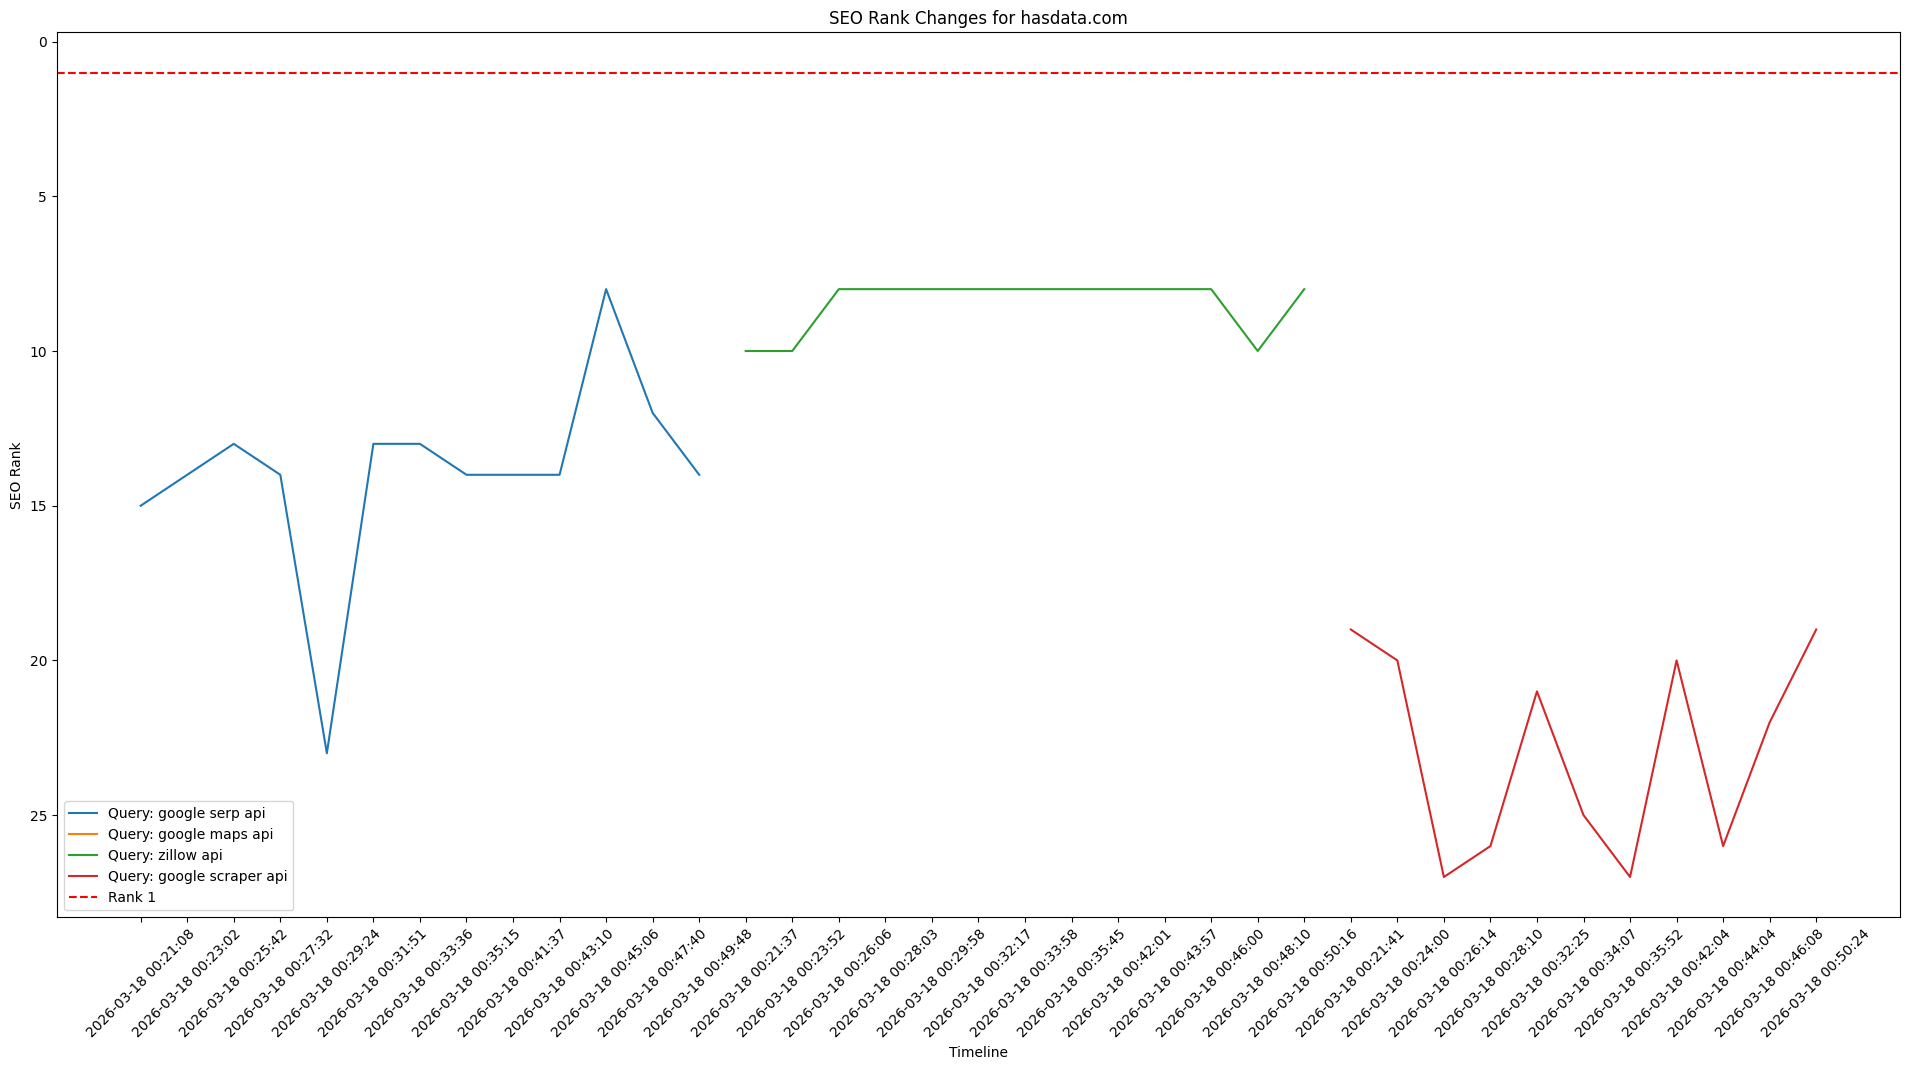
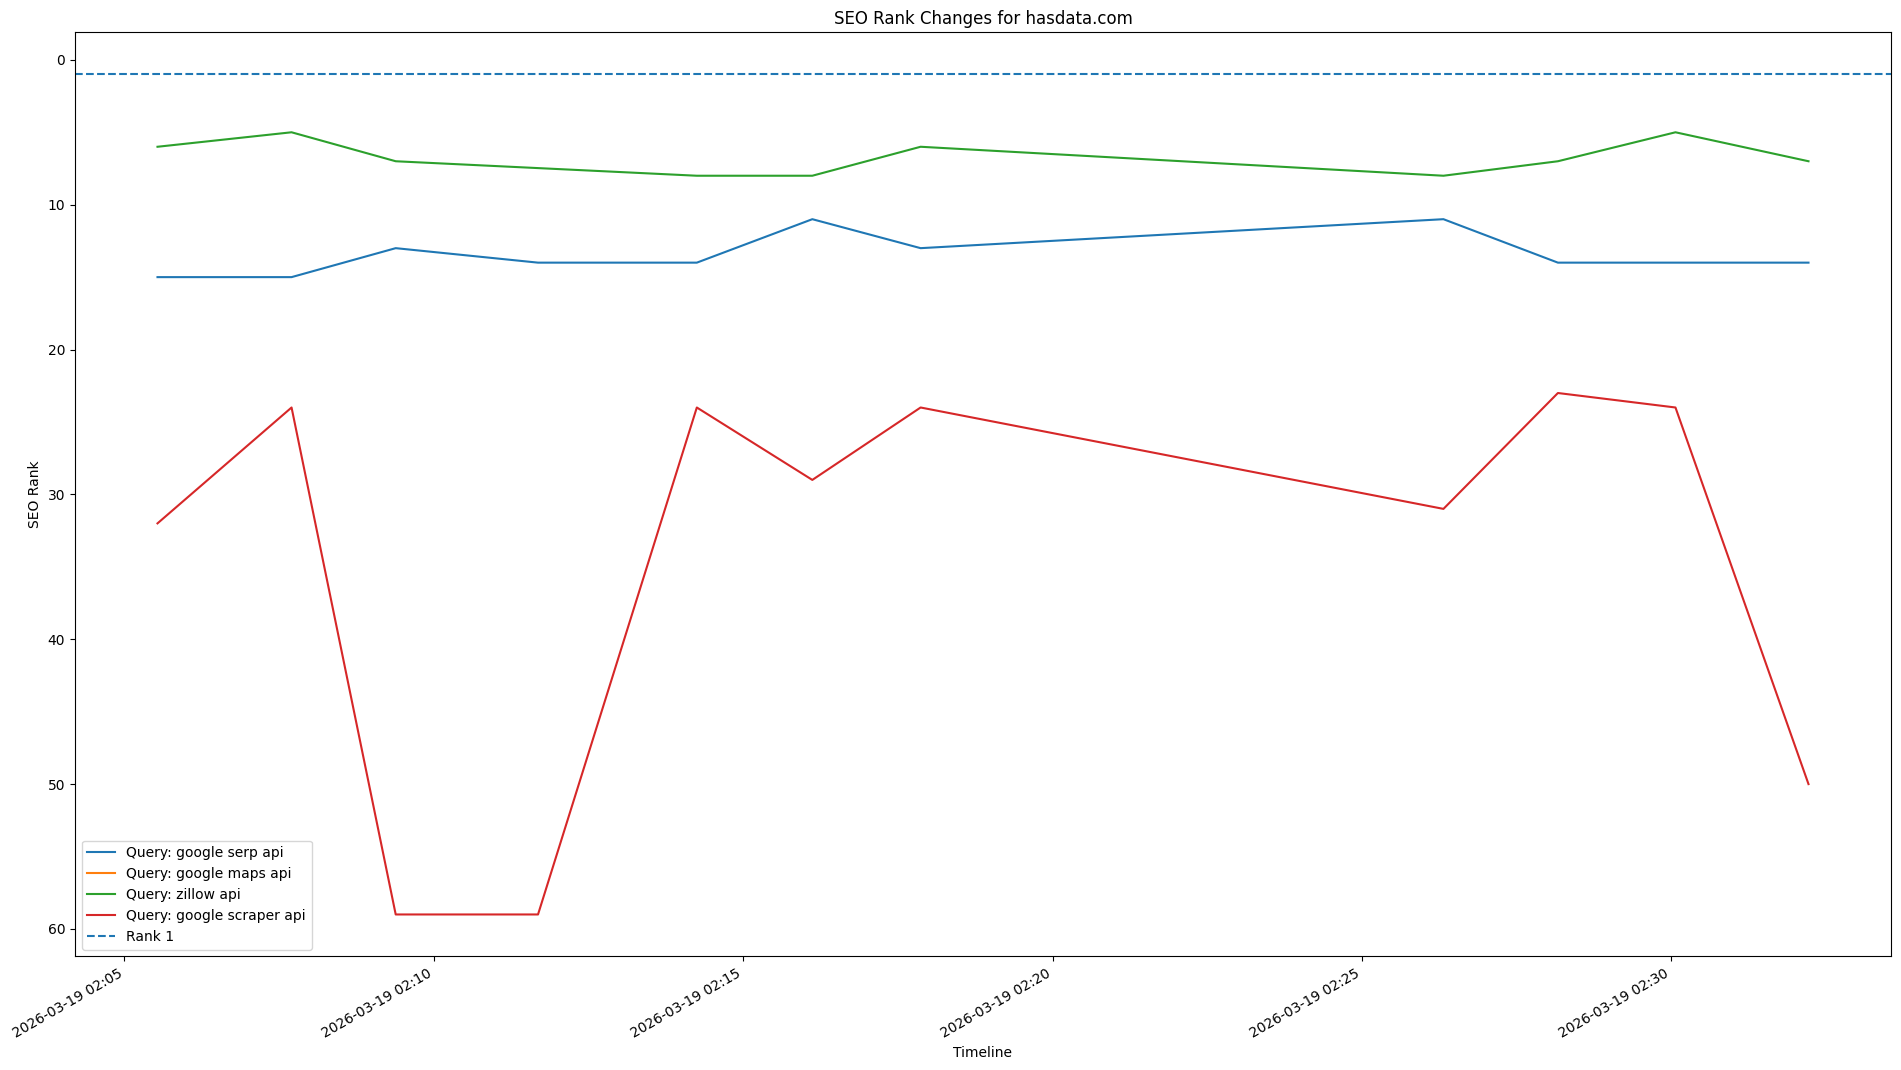
Fixed graph bugs, need to update readme next

diff --git a/src/main.py b/src/main.py
@@ -5,24 +5,22 @@ from visualization import make_graph, make_excel_report
 from utils import read_domain_data, read_lines_from_settings_txt, write_domain_data, clean_domain
 
 
-def get_datetime_and_rank(query: str, target_domain: str):
+def get_rank(query: str, target_domain: str):
     max_pages_search = 200
 
     for page_idx in range(max_pages_search):
         data = api.get_data(query, at_page=page_idx * 10)
-        datetime_now = datetime.now().strftime("%Y-%m-%d %H:%M:%S")
 
         if not 'organicResults' in data:
-            print(f'No more organic results found for --- {query}\nAt page: {page_idx + 1}\n')
-            return []
+            return None
 
         for result_idx, result in enumerate(data['organicResults']):
             domain_normalized = clean_domain(result.get('link', ''))
             if domain_normalized == target_domain:
                 search_rank = int(page_idx * 10 + result_idx + 1)
-                return [datetime_now, search_rank]
+                return search_rank
 
-    return []
+    return None
 
 
 def main():
@@ -35,6 +33,7 @@ def main():
         raise RuntimeError("Missing queries in --- settings/search_queries.txt")
 
     domain_data = read_domain_data(target_domain)
+    datetime_now = datetime.now().strftime("%Y-%m-%d %H:%M:%S")
 
     if not domain_data:
         domain_data = {target_domain: {}}
@@ -43,9 +42,9 @@ def main():
         if query not in domain_data[target_domain]:
             domain_data[target_domain][query] = []
 
-        rank_info = get_datetime_and_rank(query, target_domain)
-        if rank_info:
-            domain_data[target_domain][query].append(rank_info)
+        rank = get_rank(query, target_domain)
+        if rank is not None:
+            domain_data[target_domain][query].append([datetime_now, rank])
 
     write_domain_data(target_domain, domain_data)
     make_graph(target_domain, domain_data)

diff --git a/src/visualization.py b/src/visualization.py
@@ -1,5 +1,7 @@
 import os
 import matplotlib.pyplot as plt
+import matplotlib.dates as mdates
+from datetime import datetime
 import xlsxwriter
 
 
@@ -8,26 +10,30 @@ def make_graph(target_domain: str, domain_data: dict):
     image_height = 1080
     dpi = 100
 
-    plt.figure(figsize=(image_width/dpi, image_height/dpi), dpi=dpi)
+    plt.figure(figsize=(image_width / dpi, image_height / dpi), dpi=dpi)
 
     for query, rank_data in domain_data[target_domain].items():
-        x_axis = [x[0] for x in rank_data]
+        x_axis = [datetime.strptime(x[0], "%Y-%m-%d %H:%M:%S") for x in rank_data]
         y_axis = [x[1] for x in rank_data]
 
         plt.plot(x_axis, y_axis, label=f"Query: {query}")
 
-    plt.axhline(y=1, color="red", linestyle="--", label="Rank 1")
+    plt.axhline(y=1, linestyle="--", label="Rank 1")
     plt.xlabel("Timeline")
     plt.ylabel("SEO Rank")
     plt.title(f"SEO Rank Changes for {target_domain}")
     plt.legend()
-    plt.xticks(rotation=45)
-    plt.gca().invert_yaxis()  # rank 1 at top
+    ax = plt.gca()
+    ax.xaxis.set_major_locator(mdates.AutoDateLocator())
+    ax.xaxis.set_major_formatter(mdates.DateFormatter("%Y-%m-%d %H:%M"))
+    plt.gcf().autofmt_xdate()
+    ax.invert_yaxis()
     plt.tight_layout()
 
     script_dir = os.path.dirname(os.path.abspath(__file__))
     file_path = os.path.join(script_dir, '..', 'output', f'{target_domain}.png')
-    plt.savefig(file_path, dpi=100, bbox_inches="tight")
+    plt.savefig(file_path, dpi=dpi, bbox_inches="tight")
+    plt.close()
 
 
 def make_excel_report(target_domain, domain_data):

diff --git a/README.md b/README.md
@@ -2,7 +2,7 @@
 ![Requests](https://img.shields.io/badge/requests-enabled-2ea44f)
 ![dotenv](https://img.shields.io/badge/config-.env-orange)
 
-# Extract LinkedIn profiles from Google SERP API
+# Draft 2
 [![HasData_bannner](assets/banner.png)](https://hasdata.com/?utm_source=github&utm_medium=repo&utm_campaign=extract-emails-from-google-search)
 
 Companion code for a YouTube video showing how to find publicly visible LinkedIn profiles from Google search with the [HasData Google SERP API](https://hasdata.com/apis/google-serp-api?utm_source=github&utm_medium=repo&utm_campaign=extract-emails-from-google-search).
